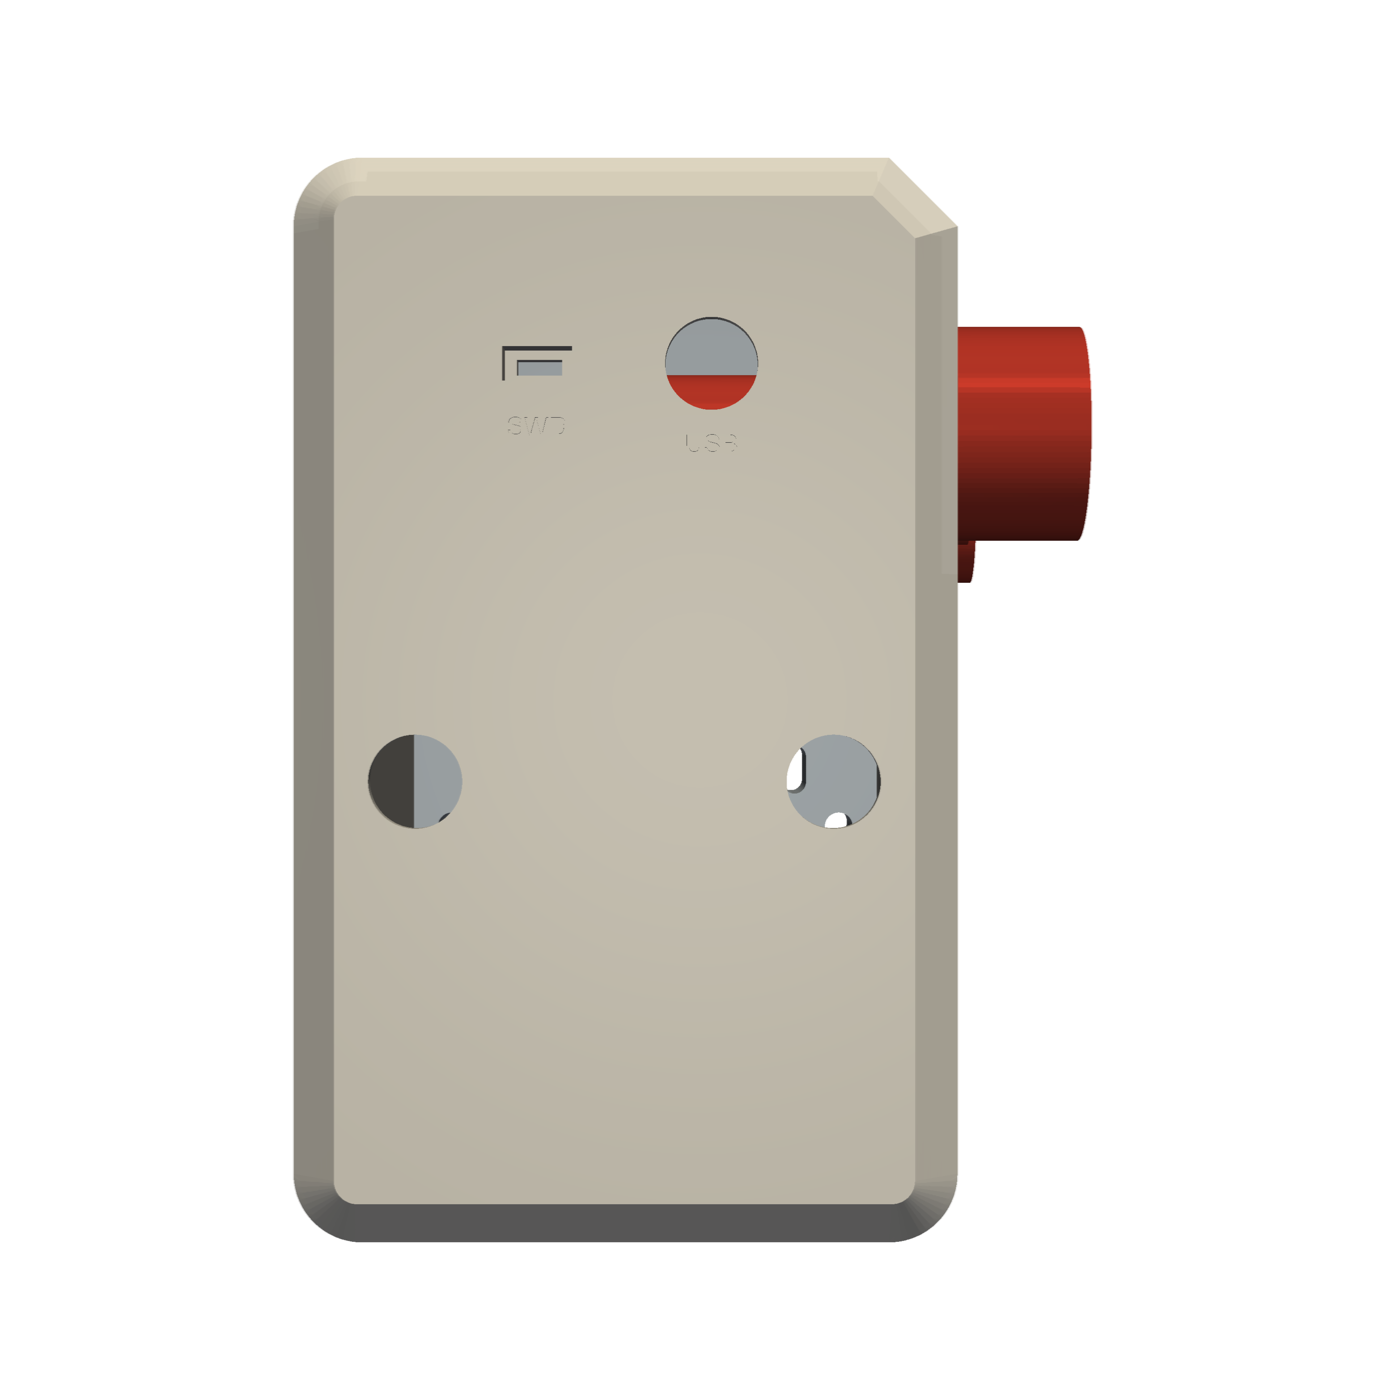
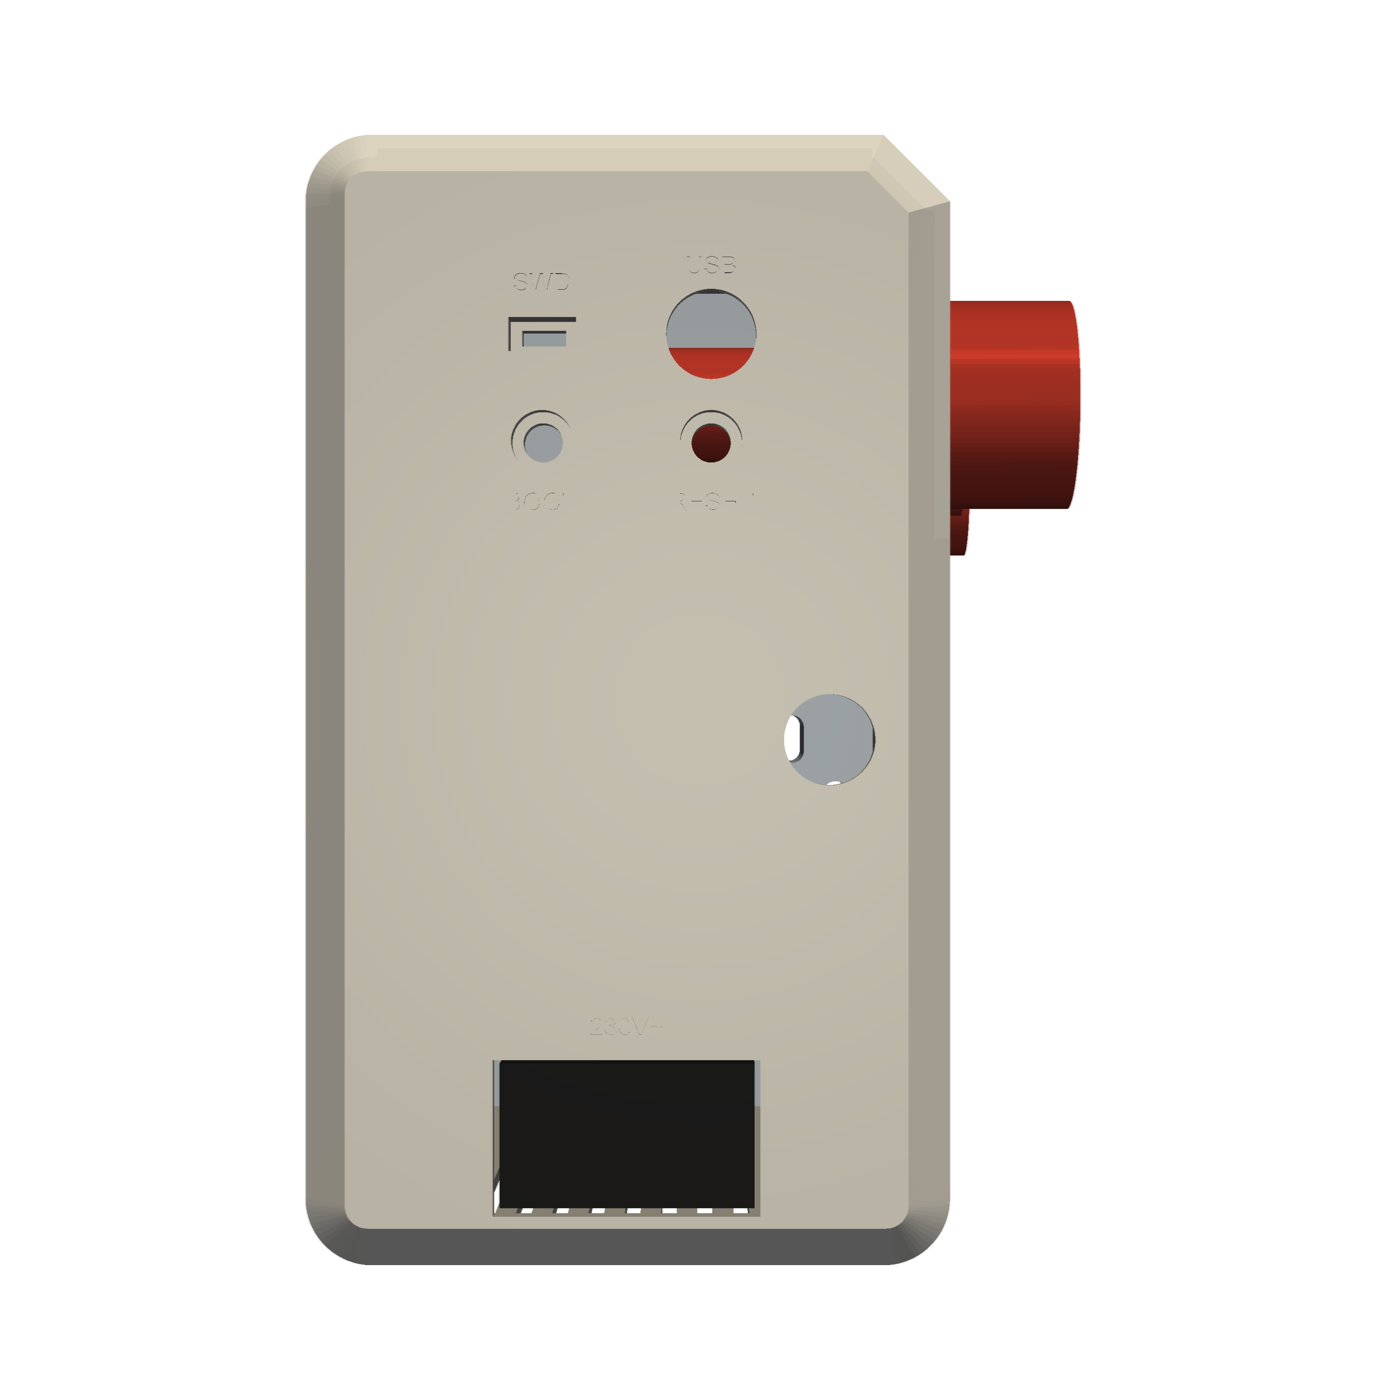
Built-in 36 V supply: LRS-100-36 under the module, fused switched IEC inlet in the end wall
- PSU lies flat under the clutch/motor on printed ribs (>= 3 mm clearance over the whole tension slot), terminals
  toward the end wall; floor and plate bottom 14 mm lower (print height unchanged, footprint 116 x 201 fits the MK3S)
- Snap-in IEC C14 + fuse + switch low in the end wall (230V~ engraved); 36 V gland removed (wired internally to J1)
- M4 earth-bond hole in the plate; mains wiring, PE, fuse and cord notes in FEED_UNIT.md; design.md R8/BOM updated
- Port labels moved clear of the buttons

Changed region(s): [[0.1843, 0.0921, 0.7986, 0.9214], [0.4607, 0.1843, 0.5529, 0.3379], [0.3686, 0.215, 0.3993, 0.3379]]

diff --git a/mechanical/feed_unit/feed_unit.py b/mechanical/feed_unit/feed_unit.py
@@ -65,6 +65,16 @@ class F:
     circlip_groove: float = 1.3      # DIN 472-32 in the plate, DIN 471-15 on the stub
     circlip_land: float = 2.6        # material outside each plate groove (DIN 472-32 minimum edge margin)
     tension_slot: float = 3.0        # +- adjustment of the module along the centre line
+    # --- built-in 36 V supply (Mean Well LRS-100-36: 36 V 2.8 A, 129 x 97 x 30, terminals on one 97 mm end) and a
+    # fused, switched IEC C14 inlet; lies flat under the clutch/motor module, terminals toward the end wall
+    psu_l: float = 129.0
+    psu_w: float = 97.0
+    psu_h: float = 30.0
+    psu_w0: float = 80.0             # W of the PSU's plate-side end: just past the belt-tension block (W 63..75)
+    psu_top_gap: float = 3.0         # under the clutch cover with the module at the bottom of its tension slot
+    psu_feet: float = 3.0            # printed ribs under it: air gap to the floor vents
+    inlet_cut: tuple = (47.5, 27.8)  # snap-in IEC C14 + fuse + rocker switch module, panel cut-out (check yours)
+    inlet_depth: float = 35.0        # its body behind the panel
     # --- Oldham coupling (steel/bronze disc): tongue into the leadscrew slot, cross slot for the stub tongue
     oldham_d: float = 24.0           # outside the bracket, so not tied to the leadscrew diameter
     oldham_t: float = 9.0
@@ -176,7 +186,10 @@ def place_module(shape):
 
 # ------------------------------------------------------------------ parts
 GUARD_R1 = GUARD_R1_
-PLATE_BOT = MY - (CP.housing_od / 2 + CP.cover_wall) - f.tension_slot - 22   # room for the tension block
+PSU_TOP = MY - (CP.housing_od / 2 + CP.cover_wall) - f.tension_slot - f.psu_top_gap    # under the clutch cover
+PSU_BOT = PSU_TOP - f.psu_h
+PLATE_BOT = min(MY - (CP.housing_od / 2 + CP.cover_wall) - f.tension_slot - 22,           # room for the tension block
+                PSU_BOT - f.psu_feet)                                                  # and the built-in PSU
 
 
 def bearing_zs():
@@ -226,6 +239,7 @@ def plate():
     for k in range(3):  # encoder posts, M3 tapped 8 deep from the outer face
         a = math.radians(90 + 120 * k)
         s = s - Pos(f.enc_post_r * math.cos(a), f.enc_post_r * math.sin(a), Z_PLATE_OUT - 8) * Cylinder(1.25, 8, align=MIN)
+    s = s - Pos(-44.0, PLATE_BOT + 8, Z_PLATE_OUT - 8) * Cylinder(1.65, 8, align=MIN)   # M4 earth bond (PE to the plate)
     for x in (-15.0, 15.0):  # tension block, 2x M5 tapped from the outer face
         s = s - Pos(MX + x, TB_Y, Z_PLATE_OUT - 12) * Cylinder(2.1, 12, align=MIN)
     return s
@@ -358,6 +372,7 @@ RAIL = f.rail
 INSERT_D, INSERT_L = 4.0, 6.0                       # M3 x 5.7 heat-set insert hole
 R_IN = f.r_long - T                                 # inside radius of the long edges
 W_END_SCREW = W_END - f.r_end - 4.0                 # end hood screws: countersunk heads fully on the flat, not the chamfer
+INLET_Y = PSU_BOT + 18.0    # IEC inlet centre height on the end wall (cut-out stays above the end chamfer)
 USB_PORT = (15.0, 10.0)     # (x, y) on the end wall
 SWD_PORT = (-15.0, 10.0)
 BOOT_BTN = (-15.0, -9.0)    # 7 mm momentary buttons wired across the PCB's SW1 (BOOTSEL) and SW2 (RESET)
@@ -420,6 +435,14 @@ def pcb_placeholder():
 MSTB_PLUG = 13.0          # MSTB 2,5/..-ST-5,08 plug body beyond the header face (Phoenix drawing: ~12.5)
 WIRE_RUN = 10.0           # ferrule (8) + 2 straight before the bend
 WIRE_BEND = 7.0           # bend radius, 1.5 mm2 wire turning down past the board edge
+
+
+def psu_placeholder():
+    """LRS-100-36 body (plus its terminal cover) and the IEC inlet module's body behind the end wall."""
+    psu = bx(-f.psu_w / 2, f.psu_w / 2, PSU_BOT, PSU_TOP, f.psu_w0, f.psu_w0 + f.psu_l)
+    iw, ih = f.inlet_cut
+    inlet = bx(-iw / 2 + 1, iw / 2 - 1, INLET_Y - ih / 2 + 1, INLET_Y + ih / 2 - 1, W_END - T - f.inlet_depth, W_END - T)
+    return psu, inlet
 
 
 def plug_wires():
@@ -559,8 +582,14 @@ def shell():
             s = s - xcyl(1.25, fz["x_in"] - 8, fz["x_in"] + 0.1, (fz["y0"] + fz["y1"]) / 2 + dy, (fz["w0"] + fz["w1"]) / 2 + dw)
     # end wall: 2x M16 cable glands LOW, beside the motor (36 V on the J1 side, limit switches on the J7 side): the
     # wires drop from the plugs past the board's edge, behind the motor tail; and the USB-C access slot
-    for xg in (-36.0, 36.0):                     # locknut (23 across corners) clears the inside chamfer
-        s = s - wcyl(8.1, W_END - T - 1, W_END + 1, xg, -62.0)
+    # M16 gland for the limit-switch cable (36 V is internal now); locknut clears the inside chamfer
+    s = s - wcyl(8.1, W_END - T - 1, W_END + 1, 36.0, -62.0)
+    # mains: snap-in IEC C14 inlet (fuse + switch) low in the end wall, below the PSU-free strip behind the motor tail
+    iw, ih = f.inlet_cut
+    s = s - bx(-iw / 2, iw / 2, INLET_Y - ih / 2, INLET_Y + ih / 2, W_END - T - 1, W_END + 1)
+    # PSU support ribs on the floor (along W, so air from the floor vents passes between them)
+    for xr_ in (-40.0, -12.0, 12.0, 40.0):
+        s = s + bx(xr_ - 1.5, xr_ + 1.5, Y0 - G - 0.5, PSU_BOT, f.psu_w0 + 5, f.psu_w0 + f.psu_l - 5)
     # programming ports, usable with the box closed (above the plugs, clear of the end rails):
     #   USB-C: round nut-mount panel extension (e.g. Adafruit #6069, 12-18 mm hole), its male end left in J4
     #   SWD:   1x3 0.1" pin header pressed into a slot from outside, pins sunk in a recess; 3 wires inside to J3.
@@ -576,12 +605,14 @@ def shell():
     for bxx, byy in (BOOT_BTN, RESET_BTN):
         s = s + wcyl(8.0, wi - 5, wi + 0.5, bxx, byy)
         s = s - wcyl(5.5, W_END - 4, W_END + 1, bxx, byy) - wcyl(3.5, wi - 6, W_END + 1, bxx, byy)
-    for txt, x, y in (("SWD", sx, sy - 11), ("USB", ux, uy - 14), ("BOOT", BOOT_BTN[0], BOOT_BTN[1] - 11),
+    for txt, x, y in (("SWD", sx, sy + 9), ("USB", ux, uy + 12), ("BOOT", BOOT_BTN[0], BOOT_BTN[1] - 11),
                       ("RESET", RESET_BTN[0], RESET_BTN[1] - 11)):                      # engraved on the bed face
         try:
             s = s - extrude(Plane(origin=(x, y, W_END), x_dir=(1, 0, 0), z_dir=(0, 0, 1)) * Text(txt, 4.5), amount=-0.6)
         except Exception as e:  # noqa: BLE001 - a missing font must not stop the build
             print("label %s skipped: %s" % (txt, e))
+    s = s - extrude(Plane(origin=(0, INLET_Y + f.inlet_cut[1] / 2 + 6, W_END), x_dir=(1, 0, 0), z_dir=(0, 0, 1))
+                    * Text("230V~", 4.5), amount=-0.6)
     return s
 
 
@@ -718,6 +749,7 @@ def build():
     parts["pcb_placeholder"] = Compound(children=pcb_placeholder())
     parts["controls"] = Compound(children=controls())
     parts["plug_wires"] = Compound(children=plug_wires())
+    parts["psu"], parts["mains_inlet"] = psu_placeholder()
     groups = {"estop": (0, 3), "toggle": (3, 5), "rapid": (5, 7), "dial": (7, 9), "oled": (9, 10), "adapter": (10, 12)}
     cs = controls()
     for nm, (i0, i1) in groups.items():                       # one STL per control, so the viewer can name them
@@ -726,7 +758,7 @@ def build():
         json.dump({"pcb_x0": f.pcb_x0, "pcb_y": f.pcb_y, "pcb_w0": f.pcb_w0}, fh)
     for name, shape in parts.items():
         export_stl(shape, os.path.join(OUT, name + ".stl"))
-        if not name.startswith(("mill_reference", "motor", "clutch_", "belt", "bearings", "module_bolt", "pcb_", "control", "plug_")):
+        if not name.startswith(("mill_reference", "motor", "clutch_", "belt", "bearings", "module_bolt", "pcb_", "control", "plug_", "psu", "mains_")):
             export_step(shape, os.path.join(OUT, name + ".step"))
     export_step(Compound(children=list(parts.values())), os.path.join(OUT, "feed_unit_assembly.step"))
     return parts
@@ -811,6 +843,20 @@ strip along the upper front with their bodies reaching back over the PCB.
 | End wall | 2× M16 cable glands **low**, beside the motor (36 V on the J1 side, limit switches on the J7 side). **Programming ports, usable with the box closed:** a Ø16 hole for a round nut-mount USB-C panel extension (e.g. Adafruit #6069; its male end stays in J4, plug body ≤ 12.4 × 6.6), **BOOT and RESET** buttons (7 mm momentary NO, recessed in Ø11 × 4 counterbores; solder 2 wires across the pads of SW1 / SW2 on the PCB, in parallel with them) and a recessed **SWD port** (1×3 0.1" header, SWCLK / GND / SWDIO like J3, pressed into the slot from outside with a drop of CA; solder 3 wires to its inner pins and run them to J3) |
 | Vents | intake slots in the bottom under the motor; exhaust through a louvre block high on the back wall, beside the encoder (slots climb 45° inward through 7.5 mm, so chips can't fall in), away from the fuse. The block takes a 40 mm fan (4× M3 self-tapping, 32 mm square) on its inside |
 
+- **Power, built in:** a Mean Well **LRS-100-36** (36 V / 2.8 A, 129 × 97 × 30) lies flat under the clutch and motor on
+  four printed ribs, terminals toward the end wall; a **snap-in IEC C14 inlet with fuse and rocker switch** (panel
+  cut-out {f.inlet_cut[0]} × {f.inlet_cut[1]}, check yours) sits low in the end wall. A normal kettle cord plugs in.
+  - Inlet fuse: T 2 A for 230 V (T 3.15 A for 120 V). The PCB's own 5 A fuse protects the 36 V side.
+  - **Protective earth:** inlet ⏚ → PSU ⏚ terminal, and a second green/yellow lead from the inlet ⏚ to an M4 ring
+    terminal on the aluminium plate (tapped hole in the plate's outer face, star washer): the plate, motor and clutch
+    are then earthed.
+  - Mains wiring: 0.75 mm² 300/500 V wire, insulated female spades on the inlet, crimp ferrules in the PSU
+    terminals, the PSU's terminal cover fitted. Keep it along the floor at the end wall, away from the PCB; 36 V
+    (PSU +V/−V → J1, 1 mm²) goes up behind the motor tail with the other wires.
+  - The cord moves with the table: give it a loop or a cable chain and strain-relieve it at the mill stand; the
+    inlet is the only mains connection, so unplugging the cord makes the whole unit dead.
+  - The rocker switch is the mains switch; the E-stop still only removes the drive enable and the clutch (design.md §8a).
+  - Your S-350-36 is no longer needed for this unit.
 - **Programming with the box closed:**
   - **From your Mac, whatever the firmware does:** USB-C cable from the Mac to the end-wall USB-C. Hold **BOOT**, tap
     **RESET**, release BOOT: the RP2040 comes up as the `RPI-RP2` drive; copy `power-feed.uf2` onto it. (With the 36 V

diff --git a/mechanical/tools/check_feed_unit.py b/mechanical/tools/check_feed_unit.py
@@ -52,7 +52,7 @@ for t in (-FU.f.tension_slot, 0.0, FU.f.tension_slot):
         print("  heads t=%+.0f vs %-12s overlap %.3f mm3, min dist %.2f" % (t, name, v, d))
 print("bad pairs incl. bolt heads", bad)
 # housing clearances: the clutch module moves +-tension_slot along the belt centre line, the housing does not
-housing_names = [n for n in parts if n in ("shell", "hood")]
+housing_names = [n for n in parts if n in ("shell", "hood", "psu", "mains_inlet")]
 ux, uy = FU.math.cos(FU.ANG), FU.math.sin(FU.ANG)
 moving = ("motor", "clutch_cover", "clutch_field_housing", "pulley_20T")
 worst = {}

diff --git a/mechanical/feed_unit/FEED_UNIT.md b/mechanical/feed_unit/FEED_UNIT.md
@@ -63,7 +63,7 @@ strip along the upper front with their bodies reaching back over the PCB.
 
 | | |
 |---|---|
-| Outer size | 116 (front-back) × 190 (high) × 207 mm (along the table); long edges R12, the top-front edge and the end wall chamfered 45° (they lie on the print bed); plus the 35 mm belt chamber and the controls proud of the front |
+| Outer size | 116 (front-back) × 204 (high) × 207 mm (along the table); long edges R12, the top-front edge and the end wall chamfered 45° (they lie on the print bed); plus the 35 mm belt chamber and the controls proud of the front |
 | `shell` (one print) | back, bottom, end and lower-front walls (3 mm), the rails, the 4 PCB bosses, the louvre block. **Print standing on the end wall**, 207 mm tall (MK3S: 210). Every boss and block has a 45° underside, so **no supports**; only short bridges (≤ 12 mm: rail windows, louvre slots). PETG, 4 perimeters, 20 % gyroid |
 | `hood` (one print) | top + control strip, one L-shaped piece. **Print with the strip face down**: the engraved labels come out crisp on the bed side; its back lip has a 45° inside so it prints without support. Lift it off and the whole PCB is exposed from above |
 | Plate | aluminium, 110 wide, bottom corners R9, both top corners chamfered 10.5 × 45° to sit under the housing's chamfered inside |
@@ -74,6 +74,20 @@ strip along the upper front with their bodies reaching back over the PCB.
 | End wall | 2× M16 cable glands **low**, beside the motor (36 V on the J1 side, limit switches on the J7 side). **Programming ports, usable with the box closed:** a Ø16 hole for a round nut-mount USB-C panel extension (e.g. Adafruit #6069; its male end stays in J4, plug body ≤ 12.4 × 6.6), **BOOT and RESET** buttons (7 mm momentary NO, recessed in Ø11 × 4 counterbores; solder 2 wires across the pads of SW1 / SW2 on the PCB, in parallel with them) and a recessed **SWD port** (1×3 0.1" header, SWCLK / GND / SWDIO like J3, pressed into the slot from outside with a drop of CA; solder 3 wires to its inner pins and run them to J3) |
 | Vents | intake slots in the bottom under the motor; exhaust through a louvre block high on the back wall, beside the encoder (slots climb 45° inward through 7.5 mm, so chips can't fall in), away from the fuse. The block takes a 40 mm fan (4× M3 self-tapping, 32 mm square) on its inside |
 
+- **Power, built in:** a Mean Well **LRS-100-36** (36 V / 2.8 A, 129 × 97 × 30) lies flat under the clutch and motor on
+  four printed ribs, terminals toward the end wall; a **snap-in IEC C14 inlet with fuse and rocker switch** (panel
+  cut-out 47.5 × 27.8, check yours) sits low in the end wall. A normal kettle cord plugs in.
+  - Inlet fuse: T 2 A for 230 V (T 3.15 A for 120 V). The PCB's own 5 A fuse protects the 36 V side.
+  - **Protective earth:** inlet ⏚ → PSU ⏚ terminal, and a second green/yellow lead from the inlet ⏚ to an M4 ring
+    terminal on the aluminium plate (tapped hole in the plate's outer face, star washer): the plate, motor and clutch
+    are then earthed.
+  - Mains wiring: 0.75 mm² 300/500 V wire, insulated female spades on the inlet, crimp ferrules in the PSU
+    terminals, the PSU's terminal cover fitted. Keep it along the floor at the end wall, away from the PCB; 36 V
+    (PSU +V/−V → J1, 1 mm²) goes up behind the motor tail with the other wires.
+  - The cord moves with the table: give it a loop or a cable chain and strain-relieve it at the mill stand; the
+    inlet is the only mains connection, so unplugging the cord makes the whole unit dead.
+  - The rocker switch is the mains switch; the E-stop still only removes the drive enable and the clutch (design.md §8a).
+  - Your S-350-36 is no longer needed for this unit.
 - **Programming with the box closed:**
   - **From your Mac, whatever the firmware does:** USB-C cable from the Mac to the end-wall USB-C. Hold **BOOT**, tap
     **RESET**, release BOOT: the RP2040 comes up as the `RPI-RP2` drive; copy `power-feed.uf2` onto it. (With the 36 V
@@ -99,6 +113,6 @@ strip along the upper front with their bodies reaching back over the PCB.
   - If there is no slot, use a pinned sleeve coupling instead of the tongue.
 - `standoffs`: where M6 can go into the table end or the left bracket.
 - `motor_angle_deg`: rotate the module if it hits the saddle, the base or the DRO cable at full travel.
-- The housing reaches -6 mm in front of the table's front edge (E-stop head included) and 143 mm below the
+- The housing reaches -6 mm in front of the table's front edge (E-stop head included) and 157 mm below the
   leadscrew: check both against the saddle, the DRO reader and the base at full right travel.
 - `chamber`: the minimum is set by the clutch output shaft; the script asserts it fits.

diff --git a/docs/design.md b/docs/design.md
@@ -13,14 +13,14 @@ Status: draft. The mechanical design is deferred until the mill model is known.
 | R5 | 3-position switch: center = stop and clutch released (handwheel free). Left/right = clutch engaged, feed in that direction. |
 | R6 | Rapid-traverse push-button. |
 | R7 | Overload protection ("resistance limit"): cap the motor torque, and stop the feed when the table jams or meets too much resistance. |
-| R8 | Powered from AC mains through the existing 36 V / 9.7 A PSU (StepperOnline S-350-36). |
+| R8 | Powered from AC mains through a built-in 36 V supply (Mean Well LRS-100-36, 2.8 A) behind a fused, switched IEC C14 inlet in the housing's end wall. (The S-350-36 was the original plan; it doesn't fit inside.) |
 | R9 | Custom PCB carrying the controller, stepper driver and clutch driver. Mains AC never reaches the custom PCB. |
 | R10 | E-stop and end-of-travel limit switches. |
 
 ## 2. Architecture
 
 ```
- AC mains ─► [IEC inlet + fuse + switch] ─► 36 V PSU (S-350-36)
+ AC mains ─► [IEC inlet + fuse + switch] ─► 36 V PSU (LRS-100-36, built in)
                                                │ 36 V DC
  ┌─────────────────────────────── custom PCB ──┴──────────────────────────────┐
  │  input fuse, reverse-polarity protection, TVS, bulk caps                   │
@@ -142,9 +142,9 @@ This is the authoritative version; it matches `hardware/tools/build_schematic.py
 | Clutch-side encoder | LPD3806-600BM-G5-24C (600 PPR, NPN open-collector, 5–24 V). Power it from 5 V, with 2.2–4.7 kΩ pull-ups to 3.3 V | to buy |
 | Clutch | DIY electromagnetic tooth clutch, coil designed for the 36 V bus (see §7) | to build |
 | Motor | STEPPERONLINE NEMA 23, 3 N·m | owned |
-| PSU | StepperOnline S-350-36, 36 V / 9.7 A | owned |
+| PSU | Mean Well LRS-100-36, 36 V / 2.8 A (fits inside the housing) + snap-in IEC C14 inlet with fuse and switch | to buy |
 | Fallback driver | DM556 | owned — used for breadboard firmware bring-up |
-| Panel | ON-OFF-ON toggle, rapid push-button, mushroom E-stop (NC), 2× limit switches, fused IEC inlet | to buy |
+| Panel | ON-OFF-ON toggle, rapid push-button, mushroom E-stop (NC), 2× limit switches | to buy |
 
 ## 6. Plan
 

diff --git a/README.md b/README.md
@@ -36,7 +36,7 @@ A stepper-motor X-axis power feed for a **SIEG X3.5D** mill.
 | Firmware | Builds for the RP2040; 48 passing tests. Flashable with the box closed: **USB FLASH** menu item + end-wall USB-C (UF2), or the end-wall SWD port with a Debug Probe (recovers anything). Needs bench commissioning (`firmware/README.md`) |
 | Clutch CAD | Ready to machine, after you measure the motor shaft length. Independently reviewed for fit and for machinability on a 3-axis CNC + manual lathe/mill (teeth: one 60° chamfer-mill pass per flank). Magnetic sizing must be bench-calibrated |
 | Feed unit CAD | Structure reviewed: Oldham drive, circlip bearing stack, encoder adapter, guard, drawbolt tensioner. **Mill-side dimensions are placeholders until measured** |
-| Housing (one box: drive + PCB + controls) | **Ready to print.** Compact, rounded PETG (116 × 187 × 207 mm): a shell + a hood with the controls, each one print on a Prusa MK3S with no supports; the PCB lies above the motor. Independently reviewed (printability, assembly, tool access, plugs, inserts). See FEED_UNIT.md → "Housing" |
+| Housing (one box: drive + PCB + controls + 36 V supply) | **Ready to print.** Compact, rounded PETG (116 × 201 × 207 mm), built-in LRS-100-36 supply with a fused, switched IEC inlet; USB-C, BOOT/RESET and SWD on the end wall: a shell + a hood with the controls, each one print on a Prusa MK3S with no supports; the PCB lies above the motor. Independently reviewed (printability, assembly, tool access, plugs, inserts). See FEED_UNIT.md → "Housing" |
 
 ## What you need to do
 
